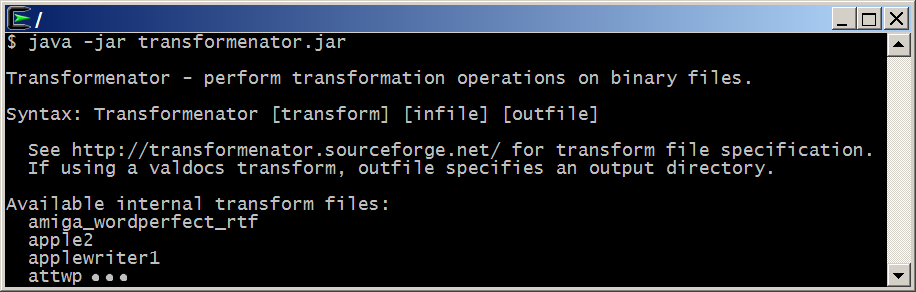
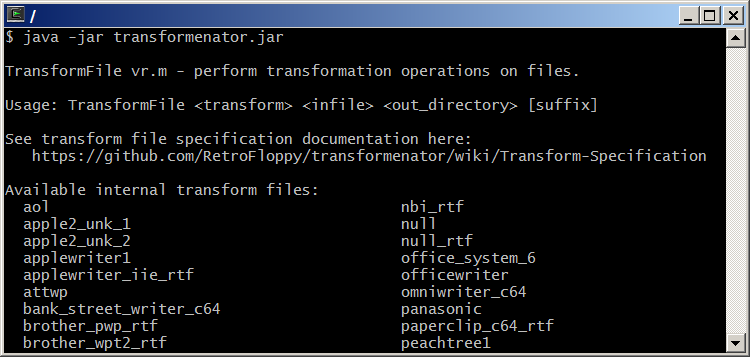
Update doc with new invocation

diff --git a/doc/README.md b/doc/README.md
@@ -11,11 +11,11 @@ It turns out that this is really, really useful when faced with files from ancie
 Invoke the transformenator Java jar file from any command line, ant script, or what have you. A set of rules (comprising a transform) are applied to the input file and written to the output file. You can use one of the included sample transforms, and you can write your own as simply as creating a text file.
 
 For example:
-```java -jar transformenator.jar transform infile outfile```
+```java -jar transformenator.jar transform infile out_directory```
 
 Where:
 `transform` - is the name of a file containing the set of transformations you want to make
 `infile` - is the original file
-`outfile` - is the resulting file after making all transformations 
+`out_directory` - is the the directory location of the resulting file after making all transformations 
 
 See https://github.com/RetroFloppy/transformenator/wiki for details.
